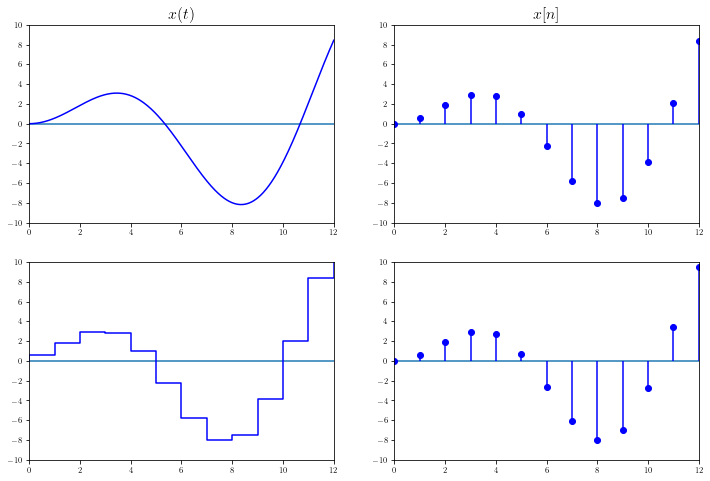
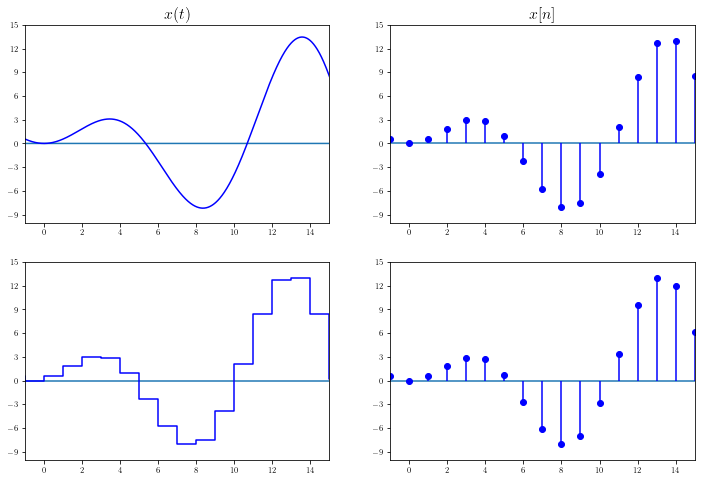
Update documentation

diff --git a/courses/dsp/intro.html b/courses/dsp/intro.html
@@ -579,8 +579,8 @@ title="Print to PDF"
     <span class="n">expr</span><span class="o">=</span><span class="n">h</span><span class="p">,</span> 
     <span class="n">xrange</span><span class="o">=</span><span class="p">(</span><span class="n">t</span><span class="p">,</span> <span class="o">-</span><span class="mi">60</span><span class="p">,</span> <span class="mi">60</span><span class="p">),</span> 
     <span class="n">color</span><span class="o">=</span><span class="s1">&#39;b&#39;</span><span class="p">)</span>
-<span class="n">ax</span><span class="p">[</span><span class="mi">0</span><span class="p">][</span><span class="mi">0</span><span class="p">]</span><span class="o">.</span><span class="n">set_xlim</span><span class="p">(</span><span class="mi">0</span><span class="p">,</span> <span class="mi">12</span><span class="p">,</span> <span class="mi">1</span><span class="p">)</span>
-<span class="n">ax</span><span class="p">[</span><span class="mi">0</span><span class="p">][</span><span class="mi">0</span><span class="p">]</span><span class="o">.</span><span class="n">set_ylim</span><span class="p">(</span><span class="o">-</span><span class="mi">10</span><span class="p">,</span> <span class="mi">10</span><span class="p">,</span> <span class="mi">1</span><span class="p">)</span>
+<span class="n">ax</span><span class="p">[</span><span class="mi">0</span><span class="p">][</span><span class="mi">0</span><span class="p">]</span><span class="o">.</span><span class="n">set_xlim</span><span class="p">(</span><span class="o">-</span><span class="mi">1</span><span class="p">,</span> <span class="mi">15</span><span class="p">,</span> <span class="mi">1</span><span class="p">)</span>
+<span class="n">ax</span><span class="p">[</span><span class="mi">0</span><span class="p">][</span><span class="mi">0</span><span class="p">]</span><span class="o">.</span><span class="n">set_ylim</span><span class="p">(</span><span class="o">-</span><span class="mi">10</span><span class="p">,</span> <span class="mi">15</span><span class="p">,</span> <span class="mi">1</span><span class="p">)</span>
 <span class="n">ax</span><span class="p">[</span><span class="mi">0</span><span class="p">][</span><span class="mi">0</span><span class="p">]</span><span class="o">.</span><span class="n">set_title</span><span class="p">(</span><span class="sa">r</span><span class="s1">&#39;$x(t)$&#39;</span><span class="p">,</span> <span class="n">fontsize</span><span class="o">=</span><span class="mi">16</span><span class="p">)</span>
 
 
@@ -589,8 +589,8 @@ title="Print to PDF"
     <span class="n">xrange</span><span class="o">=</span><span class="p">(</span><span class="n">t</span><span class="p">,</span> <span class="o">-</span><span class="mi">60</span><span class="p">,</span> <span class="mi">60</span><span class="p">,</span> <span class="mi">1</span><span class="p">),</span> 
     <span class="n">linefmt</span><span class="o">=</span><span class="s1">&#39;b&#39;</span><span class="p">,</span> 
     <span class="n">markerfmt</span><span class="o">=</span><span class="s1">&#39;bo&#39;</span><span class="p">)</span>
-<span class="n">ax</span><span class="p">[</span><span class="mi">0</span><span class="p">][</span><span class="mi">1</span><span class="p">]</span><span class="o">.</span><span class="n">set_xlim</span><span class="p">(</span><span class="mi">0</span><span class="p">,</span> <span class="mi">12</span><span class="p">,</span> <span class="mi">1</span><span class="p">)</span>
-<span class="n">ax</span><span class="p">[</span><span class="mi">0</span><span class="p">][</span><span class="mi">1</span><span class="p">]</span><span class="o">.</span><span class="n">set_ylim</span><span class="p">(</span><span class="o">-</span><span class="mi">10</span><span class="p">,</span> <span class="mi">10</span><span class="p">,</span> <span class="mi">1</span><span class="p">)</span>
+<span class="n">ax</span><span class="p">[</span><span class="mi">0</span><span class="p">][</span><span class="mi">1</span><span class="p">]</span><span class="o">.</span><span class="n">set_xlim</span><span class="p">(</span><span class="o">-</span><span class="mi">1</span><span class="p">,</span> <span class="mi">15</span><span class="p">,</span> <span class="mi">1</span><span class="p">)</span>
+<span class="n">ax</span><span class="p">[</span><span class="mi">0</span><span class="p">][</span><span class="mi">1</span><span class="p">]</span><span class="o">.</span><span class="n">set_ylim</span><span class="p">(</span><span class="o">-</span><span class="mi">10</span><span class="p">,</span> <span class="mi">15</span><span class="p">,</span> <span class="mi">1</span><span class="p">)</span>
 <span class="n">ax</span><span class="p">[</span><span class="mi">0</span><span class="p">][</span><span class="mi">1</span><span class="p">]</span><span class="o">.</span><span class="n">set_title</span><span class="p">(</span><span class="sa">r</span><span class="s1">&#39;$x[n]$&#39;</span><span class="p">,</span> <span class="n">fontsize</span><span class="o">=</span><span class="mi">16</span><span class="p">)</span>
 
 <span class="n">mpl_axes_step</span><span class="p">(</span><span class="n">ax</span><span class="p">[</span><span class="mi">1</span><span class="p">][</span><span class="mi">0</span><span class="p">],</span> 
@@ -598,8 +598,8 @@ title="Print to PDF"
     <span class="n">xrange</span><span class="o">=</span><span class="p">(</span><span class="n">t</span><span class="p">,</span> <span class="o">-</span><span class="mi">60</span><span class="p">,</span> <span class="mi">60</span><span class="p">,</span> <span class="mi">1</span><span class="p">),</span> 
     <span class="n">color</span><span class="o">=</span><span class="s1">&#39;b&#39;</span><span class="p">,</span>
 <span class="p">)</span>
-<span class="n">ax</span><span class="p">[</span><span class="mi">1</span><span class="p">][</span><span class="mi">0</span><span class="p">]</span><span class="o">.</span><span class="n">set_xlim</span><span class="p">(</span><span class="mi">0</span><span class="p">,</span> <span class="mi">12</span><span class="p">,</span> <span class="mi">1</span><span class="p">)</span>
-<span class="n">ax</span><span class="p">[</span><span class="mi">1</span><span class="p">][</span><span class="mi">0</span><span class="p">]</span><span class="o">.</span><span class="n">set_ylim</span><span class="p">(</span><span class="o">-</span><span class="mi">10</span><span class="p">,</span> <span class="mi">10</span><span class="p">,</span> <span class="mi">1</span><span class="p">)</span>
+<span class="n">ax</span><span class="p">[</span><span class="mi">1</span><span class="p">][</span><span class="mi">0</span><span class="p">]</span><span class="o">.</span><span class="n">set_xlim</span><span class="p">(</span><span class="o">-</span><span class="mi">1</span><span class="p">,</span> <span class="mi">15</span><span class="p">,</span> <span class="mi">1</span><span class="p">)</span>
+<span class="n">ax</span><span class="p">[</span><span class="mi">1</span><span class="p">][</span><span class="mi">0</span><span class="p">]</span><span class="o">.</span><span class="n">set_ylim</span><span class="p">(</span><span class="o">-</span><span class="mi">10</span><span class="p">,</span> <span class="mi">15</span><span class="p">,</span> <span class="mi">1</span><span class="p">)</span>
 <span class="c1"># ax[1][0].set_title(r&#39;$x[n]$&#39;, fontsize=16)</span>
 
 <span class="n">mpl_axes_stem</span><span class="p">(</span><span class="n">ax</span><span class="p">[</span><span class="mi">1</span><span class="p">][</span><span class="mi">1</span><span class="p">],</span> 
@@ -607,8 +607,8 @@ title="Print to PDF"
     <span class="n">xrange</span><span class="o">=</span><span class="p">(</span><span class="n">t</span><span class="p">,</span> <span class="o">-</span><span class="mi">60</span><span class="p">,</span> <span class="mi">60</span><span class="p">,</span> <span class="mi">1</span><span class="p">),</span> 
     <span class="n">linefmt</span><span class="o">=</span><span class="s1">&#39;b&#39;</span><span class="p">,</span> 
     <span class="n">markerfmt</span><span class="o">=</span><span class="s1">&#39;bo&#39;</span><span class="p">)</span>
-<span class="n">ax</span><span class="p">[</span><span class="mi">1</span><span class="p">][</span><span class="mi">1</span><span class="p">]</span><span class="o">.</span><span class="n">set_xlim</span><span class="p">(</span><span class="mi">0</span><span class="p">,</span> <span class="mi">12</span><span class="p">,</span> <span class="mi">1</span><span class="p">)</span>
-<span class="n">ax</span><span class="p">[</span><span class="mi">1</span><span class="p">][</span><span class="mi">1</span><span class="p">]</span><span class="o">.</span><span class="n">set_ylim</span><span class="p">(</span><span class="o">-</span><span class="mi">10</span><span class="p">,</span> <span class="mi">10</span><span class="p">,</span> <span class="mi">1</span><span class="p">)</span>
+<span class="n">ax</span><span class="p">[</span><span class="mi">1</span><span class="p">][</span><span class="mi">1</span><span class="p">]</span><span class="o">.</span><span class="n">set_xlim</span><span class="p">(</span><span class="o">-</span><span class="mi">1</span><span class="p">,</span> <span class="mi">15</span><span class="p">,</span> <span class="mi">1</span><span class="p">)</span>
+<span class="n">ax</span><span class="p">[</span><span class="mi">1</span><span class="p">][</span><span class="mi">1</span><span class="p">]</span><span class="o">.</span><span class="n">set_ylim</span><span class="p">(</span><span class="o">-</span><span class="mi">10</span><span class="p">,</span> <span class="mi">15</span><span class="p">,</span> <span class="mi">1</span><span class="p">)</span>
 <span class="c1"># ax[1][1].set_title(r&#39;$x[n]$&#39;, fontsize=16)</span>
 
 
@@ -650,7 +650,7 @@ title="Print to PDF"
 
 <span class="n">mpl_axes_stem</span><span class="p">(</span><span class="n">ax</span><span class="p">[</span><span class="mi">0</span><span class="p">][</span><span class="mi">1</span><span class="p">],</span> <span class="p">(</span><span class="n">h</span><span class="o">+</span><span class="n">h</span><span class="o">.</span><span class="n">subs</span><span class="p">(</span><span class="n">t</span><span class="p">,</span> <span class="o">-</span><span class="n">t</span><span class="p">)),</span> <span class="p">(</span><span class="n">t</span><span class="p">,</span> <span class="o">-</span><span class="mi">40</span><span class="p">,</span> <span class="mi">40</span><span class="p">,</span> <span class="mi">1</span><span class="p">),</span> <span class="n">linefmt</span><span class="o">=</span><span class="s1">&#39;b&#39;</span><span class="p">,</span> <span class="n">markerfmt</span><span class="o">=</span><span class="s1">&#39;bo&#39;</span><span class="p">)</span>
 <span class="c1"># mpl_axes_stem(ax[0][1], (h+h.subs(t, -t)), (t, -40, 40, 1), linefmt=&#39;r&#39;, markerfmt=&#39;ro&#39;)</span>
-<span class="n">ax</span><span class="p">[</span><span class="mi">0</span><span class="p">][</span><span class="mi">1</span><span class="p">]</span><span class="o">.</span><span class="n">scatter</span><span class="p">(</span><span class="mi">0</span><span class="p">,</span> <span class="mi">0</span><span class="p">,</span> <span class="n">color</span><span class="o">=</span><span class="s1">&#39;b&#39;</span><span class="p">)</span>
+<span class="n">ax</span><span class="p">[</span><span class="mi">0</span><span class="p">][</span><span class="mi">1</span><span class="p">]</span><span class="o">.</span><span class="n">stem</span><span class="p">(</span><span class="mi">0</span><span class="p">,</span> <span class="mi">1</span><span class="p">,</span> <span class="n">basefmt</span><span class="o">=</span><span class="s2">&quot; &quot;</span><span class="p">,</span> <span class="n">linefmt</span><span class="o">=</span><span class="s1">&#39;b&#39;</span><span class="p">,</span> <span class="n">markerfmt</span><span class="o">=</span><span class="s1">&#39;bo&#39;</span><span class="p">)</span>
 <span class="n">ax</span><span class="p">[</span><span class="mi">0</span><span class="p">][</span><span class="mi">1</span><span class="p">]</span><span class="o">.</span><span class="n">set_xlim</span><span class="p">(</span><span class="o">-</span><span class="mi">15</span><span class="p">,</span> <span class="mi">15</span><span class="p">,</span> <span class="mi">1</span><span class="p">)</span>
 <span class="n">ax</span><span class="p">[</span><span class="mi">0</span><span class="p">][</span><span class="mi">1</span><span class="p">]</span><span class="o">.</span><span class="n">set_ylim</span><span class="p">(</span><span class="o">-</span><span class="mf">1.2</span><span class="p">,</span> <span class="mf">1.2</span><span class="p">,</span> <span class="mi">1</span><span class="p">)</span>
 <span class="n">ax</span><span class="p">[</span><span class="mi">0</span><span class="p">][</span><span class="mi">1</span><span class="p">]</span><span class="o">.</span><span class="n">set_title</span><span class="p">(</span><span class="sa">r</span><span class="s1">&#39;$x[n]$ and $x[-n]$&#39;</span><span class="p">,</span> <span class="n">fontsize</span><span class="o">=</span><span class="mi">16</span><span class="p">)</span>
